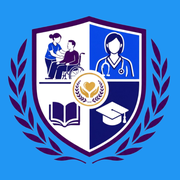
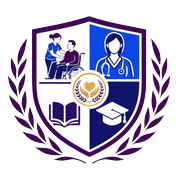
update

diff --git a/css/portal.css b/css/portal.css
@@ -7,6 +7,10 @@
    --------------------------------------------------------- */
 
 :root {
+  --brand-purple: #3b0a6e;
+  --brand-blue: #1a4fd6;
+  --brand-navy: #152a6e;
+  --brand-gold: #c9a227;
   --ink: #0a1128;
   --paper: #ffffff;
   --mist: #e8ecf2;
@@ -944,3 +948,135 @@ h1, h2, h3, h4, p { margin: 0; }
 }
 [data-theme="dark"] .page-head h1,
 [data-theme="dark"] .display { color: #f8fafc; }
+
+/* CareEd + school mark */
+.careed-brand {
+  display: flex; align-items: center; gap: 10px; min-width: 0;
+}
+.careed-brand img {
+  width: 36px; height: 36px; object-fit: contain; flex-shrink: 0;
+}
+.careed-brand .careed-text { line-height: 1.15; min-width: 0; }
+.careed-brand .careed-text strong {
+  display: block; font-family: Montserrat, sans-serif; font-weight: 800; font-size: 14px;
+  color: var(--ink); letter-spacing: -0.02em;
+}
+.careed-brand .careed-text span {
+  display: block; font-size: 10px; color: var(--muted); font-weight: 600;
+}
+.m-top { display: flex; align-items: center; justify-content: space-between; gap: 8px; }
+.m-top-r { display: flex; align-items: center; gap: 8px; }
+.notif-btn {
+  width: 40px; height: 40px; border-radius: 50%; border: 0; background: #f1f5f9;
+  display: grid; place-items: center; position: relative; cursor: pointer;
+}
+.notif-btn .dot {
+  position: absolute; top: 8px; right: 8px; width: 8px; height: 8px;
+  background: #dc2626; border-radius: 50%; border: 2px solid #fff;
+}
+.notif-drawer {
+  position: fixed; inset: 0; z-index: 80; pointer-events: auto;
+}
+.notif-drawer.open { pointer-events: auto; }
+.notif-scrim {
+  position: absolute; inset: 0; background: rgba(15,23,42,0.35); opacity: 0;
+  transition: opacity 0.2s;
+}
+.notif-drawer.open .notif-scrim { opacity: 1; }
+.notif-panel {
+  position: absolute; top: 0; right: 0; bottom: 0; width: min(100%, 360px);
+  background: #fff; transform: translateX(105%); transition: transform 0.28s ease;
+  display: flex; flex-direction: column; box-shadow: -8px 0 30px rgba(0,0,0,0.12);
+}
+.notif-drawer.open .notif-panel { transform: translateX(0); }
+.notif-head {
+  display: flex; align-items: center; justify-content: space-between;
+  padding: 16px; border-bottom: 1px solid #eef2f7;
+}
+.notif-list { flex: 1; overflow-y: auto; padding: 12px; }
+.notif-item {
+  padding: 12px; border-radius: 14px; border: 1px solid #eef2f7;
+  margin-bottom: 8px; background: #f8fafc;
+}
+.notif-item.unread { background: #eff6ff; border-color: #bfdbfe; }
+.notif-item h4 { margin: 0 0 4px; font-size: 13px; font-weight: 800; }
+.notif-item p { margin: 0; font-size: 12px; color: var(--muted); line-height: 1.4; }
+.notif-item time { display: block; margin-top: 6px; font-size: 11px; color: #94a3b8; }
+
+.m-app { display: flex; flex-direction: column; min-height: 100dvh; max-width: 480px; margin: 0 auto; }
+.m-app .sticky-top {
+  position: sticky; top: 0; z-index: 40;
+  background: color-mix(in srgb, var(--paper, #f6f7fb) 92%, transparent);
+  backdrop-filter: blur(12px); -webkit-backdrop-filter: blur(12px);
+  padding-top: max(10px, env(safe-area-inset-top));
+  padding-bottom: 10px;
+  border-bottom: 1px solid transparent;
+}
+.m-scroll { flex: 1; min-height: 0; }
+.m-app.is-locked .m-scroll { overflow: hidden; touch-action: none; }
+.avatar-btn { border: 0; background: transparent; padding: 0; cursor: pointer; border-radius: 50%; }
+.careed-foot {
+  display: flex; align-items: center; justify-content: center; gap: 8px;
+  padding: 14px 12px max(16px, env(safe-area-inset-bottom));
+  font-size: 11px; color: var(--muted);
+}
+.careed-foot img { width: 22px; height: 22px; object-fit: contain; }
+.careed-foot b { color: var(--ink); font-weight: 800; }
+.m-tiles { display: grid; grid-template-columns: 1fr 1fr; gap: 10px; }
+.m-tile.tall { grid-row: span 1; min-height: 110px; }
+.pw-field { position: relative; display: flex; align-items: center; }
+.pw-field input { width: 100%; padding-right: 64px; box-sizing: border-box; }
+.pw-toggle {
+  position: absolute; right: 8px; border: 0; background: transparent;
+  font-size: 12px; font-weight: 700; color: var(--muted); cursor: pointer;
+}
+.auth-logo-row { display: flex; align-items: center; gap: 10px; margin-bottom: 8px; }
+.auth-logo-row img { width: 48px; height: 48px; object-fit: contain; }
+
+/* Night mode — proper surfaces */
+[data-theme="dark"] {
+  --paper: #0c1222;
+  --ink: #e8eef8;
+  --muted: #9aa8bc;
+  --line: #243044;
+  color-scheme: dark;
+  background: #0c1222;
+  color: #e8eef8;
+}
+[data-theme="dark"] .m-app { background: #0c1222; }
+[data-theme="dark"] .sticky-top {
+  background: rgba(12, 18, 34, 0.9);
+  border-bottom-color: #1e2a3d;
+}
+[data-theme="dark"] .panel,
+[data-theme="dark"] .m-card,
+[data-theme="dark"] .more-tile,
+[data-theme="dark"] .feed-card,
+[data-theme="dark"] .auth-card,
+[data-theme="dark"] .drawer-panel,
+[data-theme="dark"] .notif-panel,
+[data-theme="dark"] .quiz-card,
+[data-theme="dark"] .fees-balance {
+  background: #141c2e !important;
+  border-color: #243044 !important;
+  color: #e8eef8;
+}
+[data-theme="dark"] .m-tile { filter: saturate(0.85) brightness(0.9); }
+[data-theme="dark"] .icon-btn,
+[data-theme="dark"] .notif-btn {
+  background: #1a2438; color: #e8eef8;
+}
+[data-theme="dark"] input,
+[data-theme="dark"] textarea,
+[data-theme="dark"] select {
+  background: #0c1222; color: #e8eef8; border-color: #243044;
+}
+[data-theme="dark"] .btn-block.secondary,
+[data-theme="dark"] .pill-ink { }
+[data-theme="dark"] .empty-state,
+[data-theme="dark"] .m-banner { background: #141c2e; }
+[data-theme="dark"] .display,
+[data-theme="dark"] h1, [data-theme="dark"] h2, [data-theme="dark"] h3, [data-theme="dark"] h4 {
+  color: #f1f5f9;
+}
+[data-theme="dark"] .notif-scrim { background: rgba(0,0,0,0.55); }

diff --git a/src/pages/dashboard.page.js b/src/pages/dashboard.page.js
@@ -387,20 +387,27 @@ function BrandLoading({ isDesktop }) {
 function LoginGate({ onAuthed }) {
   const [email, setEmail] = useState("");
   const [password, setPassword] = useState("");
+  const [showPw, setShowPw] = useState(false);
   const [err, setErr] = useState("");
   const [loading, setLoading] = useState(false);
 
   async function submit(e) {
     e.preventDefault();
     setErr("");
+    const em = email.trim();
+    const pw = password;
+    if (!em || !pw) {
+      setErr("Enter both your email and password.");
+      return;
+    }
     setLoading(true);
     try {
       const { auth, signInWithEmailAndPassword } = await firebaseAuth();
-      const cred = await signInWithEmailAndPassword(auth, email.trim(), password);
+      const cred = await signInWithEmailAndPassword(auth, em, pw);
       onAuthed(cred.user);
     } catch (ex) {
       const code = ex && ex.code;
-      if (code === "auth/invalid-credential" || code === "auth/wrong-password" || code === "auth/user-not-found") {
+      if (code === "auth/invalid-credential" || code === "auth/wrong-password" || code === "auth/user-not-found" || code === "auth/invalid-email") {
         setErr("That email or password does not match. Use the password or one-time code sent after payment.");
       } else if (code === "auth/too-many-requests") {
         setErr("Too many tries. Wait a minute, then try again.");
@@ -414,15 +421,25 @@ function LoginGate({ onAuthed }) {
 
   return html`<div class="auth-wrap">
     <div class="auth-card">
-      <span class="brand">CGTIA</span>
+      <div class="auth-logo-row">
+        <img src="/assets/brand/cgtia-logo.webp" alt="CGTIA" width="48" height="48" />
+        <span class="brand">CGTIA</span>
+      </div>
       <h1>Student sign in</h1>
       <p class="sub">Use the email from your application and the password or one-time code you received after payment.</p>
       <form onSubmit=${submit}>
         <label>Email</label>
         <input type="email" required autocomplete="username" value=${email} onInput=${(e) => setEmail(e.target.value)} placeholder="you@email.com" />
         <label>Password</label>
-        <input type="password" required autocomplete="current-password" value=${password} onInput=${(e) => setPassword(e.target.value)} placeholder="••••••••" />
-        ${err ? html`<p class="err">${err}</p>` : null}
+        <div class="pw-field">
+          <input type=${showPw ? "text" : "password"} required autocomplete="current-password"
+            value=${password} onInput=${(e) => setPassword(e.target.value)} placeholder="••••••••" />
+          <button type="button" class="pw-toggle" aria-label=${showPw ? "Hide password" : "Show password"}
+            onClick=${(e) => { e.preventDefault(); e.stopPropagation(); setShowPw(!showPw); }}>
+            ${showPw ? "Hide" : "Show"}
+          </button>
+        </div>
+        ${err ? html`<p class="err" role="alert">${err}</p>` : null}
         <button type="submit" class="pill-ink" disabled=${loading}>${loading ? "Signing in…" : "Sign in"}</button>
       </form>
       <p style=${{ marginTop: 16, fontSize: 13 }}><a href="/" style=${{ color: "var(--muted)" }}>← Back to website</a></p>
@@ -555,9 +572,10 @@ export function DashboardPage() {
         { id: "score", value: avg != null ? avg : "—", total: avg != null ? 100 : null, label: avg != null ? "Average score" : "Awaiting scores", tone: "lime" }
       ]
     : [
-        { id: "courses", value: courses.length, label: "Courses on your track", icon: "book", tall: true },
+        { id: "courses", value: courses.length, label: "Modules on your track", icon: "book", tall: true },
         { id: "grades", value: grades.length, label: "Published results", icon: "chart" },
-        { id: "fees", value: avg != null ? avg : "₦" + (paidTotal >= 1000 ? Math.round(paidTotal / 1000) + "k" : paidTotal), label: avg != null ? "Average score" : "Fees recorded", icon: "card" }
+        { id: "score", value: avg != null ? avg : "—", label: avg != null ? "Average score" : "No scores yet", icon: "chart" },
+        { id: "fees", value: "₦" + (paidTotal >= 1000 ? Math.round(paidTotal / 1000) + "k" : paidTotal), label: "Fees recorded", icon: "card" }
       ];
 
   // Fix desktop stats - total null shows ugly - adjust StatCard already handles total != null

diff --git a/src/pages/portal/mobile.view.js b/src/pages/portal/mobile.view.js
@@ -742,9 +742,10 @@ function SettingsScreen({ student, user, onLogout, setSection }) {
 
 
 function NotifDrawer({ open, onClose, items, onOpen }) {
-  return html`<div class=${"notif-drawer" + (open ? " open" : "")}>
+  if (!open) return null;
+  return html`<div class="notif-drawer open">
     <div class="notif-scrim" onClick=${onClose}></div>
-    <aside class="notif-panel" role="dialog" aria-label="Notifications">
+    <aside class="notif-panel" role="dialog" aria-modal="true" aria-label="Notifications">
       <div class="notif-head">
         <strong style=${{ fontSize: 16 }}>Notifications</strong>
         <button type="button" class="icon-btn" aria-label="Close" onClick=${onClose}>${Icon({ name: "close", size: 18 })}</button>
@@ -774,6 +775,19 @@ export function MobileView({ ctx }) {
   const [menuOpen, setMenuOpen] = useState(false);
   const [notifOpen, setNotifOpen] = useState(false);
   const closeMenu = useCallback(() => setMenuOpen(false), []);
+  useEffect(() => {
+    const lock = menuOpen || notifOpen;
+    try {
+      document.documentElement.style.overflow = lock ? "hidden" : "";
+      document.body.style.overflow = lock ? "hidden" : "";
+    } catch (_) {}
+    return () => {
+      try {
+        document.documentElement.style.overflow = "";
+        document.body.style.overflow = "";
+      } catch (_) {}
+    };
+  }, [menuOpen, notifOpen]);
   const name = student?.name || "Student";
   const first = String(name).split(/\s+/)[0];
   const unreadNotifs = (notifications || []).filter((n) => !n.read).length;
@@ -827,7 +841,7 @@ export function MobileView({ ctx }) {
       <section class="m-tiles">
         ${stats.map((s) => html`<${Tile} key=${s.id} s=${s} onClick=${() => {
           if (s.id === "courses" || s.go === "courses") setSection("courses");
-          else if (s.id === "grades" || s.go === "grades") setSection("grades");
+          else if (s.id === "grades" || s.id === "score" || s.go === "grades") setSection("grades");
           else if (s.id === "fees" || s.go === "fees") setSection("fees");
           else if (s.go) setSection(s.go);
         }} />`)}
@@ -1330,26 +1344,27 @@ export function MobileView({ ctx }) {
     `;
   }
 
-  return html`<div class="m-app">
-    <header class="m-top">
+  return html`<div class=${"m-app" + ((menuOpen || notifOpen) ? " is-locked" : "")}>
+    <header class="m-top sticky-top">
       <button class="icon-btn" aria-label="Open menu" aria-expanded=${menuOpen}
         onClick=${() => setMenuOpen(true)}>${Icon({ name: "menu", size: 18 })}</button>
-      <div class="careed-brand" aria-label="CareEd powered by CGTIA">
-        <img src="/assets/brand/cgtia-logo.webp" alt="" width="36" height="36" />
-        <div class="careed-text">
-          <strong>CareEd</strong>
-          <span>Powered by CGTIA</span>
-        </div>
-      </div>
       <div class="m-top-r">
         <button type="button" class="notif-btn" aria-label="Notifications" onClick=${() => setNotifOpen(true)}>
           ${Icon({ name: "bell", size: 18 })}
           ${unreadNotifs ? html`<span class="dot"></span>` : null}
         </button>
-        <${Avatar} src=${student?.avatar} name=${name} />
+        <button type="button" class="avatar-btn" aria-label="Profile" onClick=${() => setSection("profile")}>
+          <${Avatar} src=${student?.avatar} name=${name} />
+        </button>
       </div>
     </header>
+    <div class="m-scroll">
     ${body}
+    </div>
+    <footer class="careed-foot" aria-label="CareEd powered by CGTIA">
+      <img src="/assets/brand/cgtia-logo.webp" alt="" width="22" height="22" />
+      <span><b>CareEd</b> · Powered by CGTIA</span>
+    </footer>
     <${MenuDrawer}
       open=${menuOpen}
       onClose=${closeMenu}

diff --git a/src/pages/content/about.content.js b/src/pages/content/about.content.js
@@ -6,7 +6,7 @@ export const about_html = `
   <!-- Faded Sticky Header -->
   <header class="faded-sticky-header w-full smooth-transition">
     <div class="w-full max-w-7xl mx-auto px-6 py-8 flex justify-between items-center">
-      <a href="/" data-pill-label="Home" class="font-editorial text-xl md:text-2xl font-bold tracking-tight text-blue-950">CGTIA.</a>
+      <a href="/" data-pill-label="Home" class="font-editorial text-xl md:text-2xl font-bold tracking-tight text-blue-950"><span class="inline-flex items-center gap-2"><img src="/assets/brand/cgtia-logo.webp" alt="" width="32" height="32" class="w-8 h-8 object-contain" /><span>CGTIA</span></span></a>
       <nav class="hidden md:flex space-x-7 text-xs font-semibold tracking-widest uppercase text-slate-500">
         <a href="/" class="hover:text-blue-950 smooth-transition">Home</a>
         <a href="/about" class="text-blue-950 hover:text-blue-950 smooth-transition">About</a>

diff --git a/src/pages/content/wall-of-fame.content.js b/src/pages/content/wall-of-fame.content.js
@@ -6,7 +6,7 @@ export const wall_of_fame_html = `
   <!-- Faded Sticky Header -->
   <header class="faded-sticky-header w-full smooth-transition">
     <div class="w-full max-w-7xl mx-auto px-6 py-8 flex justify-between items-center">
-      <a href="/" data-pill-label="Home" class="font-editorial text-xl md:text-2xl font-bold tracking-tight text-blue-950">CGTIA.</a>
+      <a href="/" data-pill-label="Home" class="font-editorial text-xl md:text-2xl font-bold tracking-tight text-blue-950"><span class="inline-flex items-center gap-2"><img src="/assets/brand/cgtia-logo.webp" alt="" width="32" height="32" class="w-8 h-8 object-contain" /><span>CGTIA</span></span></a>
       <nav class="hidden md:flex space-x-7 text-xs font-semibold tracking-widest uppercase text-slate-500">
         <a href="/" class="hover:text-blue-950 smooth-transition">Home</a>
         <a href="/about" class="hover:text-blue-950 smooth-transition">About</a>

diff --git a/src/pages/content/licensing.content.js b/src/pages/content/licensing.content.js
@@ -6,7 +6,7 @@ export const licensing_html = `
   <!-- Faded Sticky Header -->
   <header class="faded-sticky-header w-full smooth-transition">
     <div class="w-full max-w-7xl mx-auto px-6 py-8 flex justify-between items-center">
-      <a href="/" data-pill-label="Home" class="font-editorial text-xl md:text-2xl font-bold tracking-tight text-blue-950">CGTIA.</a>
+      <a href="/" data-pill-label="Home" class="font-editorial text-xl md:text-2xl font-bold tracking-tight text-blue-950"><span class="inline-flex items-center gap-2"><img src="/assets/brand/cgtia-logo.webp" alt="" width="32" height="32" class="w-8 h-8 object-contain" /><span>CGTIA</span></span></a>
       <nav class="hidden md:flex space-x-7 text-xs font-semibold tracking-widest uppercase text-slate-500">
         <a href="/" class="hover:text-blue-950 smooth-transition">Home</a>
         <a href="/about" class="hover:text-blue-950 smooth-transition">About</a>

diff --git a/src/pages/content/programs.content.js b/src/pages/content/programs.content.js
@@ -6,7 +6,7 @@ export const programs_html = `
   <!-- Faded Sticky Header -->
   <header class="faded-sticky-header w-full smooth-transition">
     <div class="w-full max-w-7xl mx-auto px-6 py-8 flex justify-between items-center">
-      <a href="/" data-pill-label="Home" class="font-editorial text-xl md:text-2xl font-bold tracking-tight text-blue-950">CGTIA.</a>
+      <a href="/" data-pill-label="Home" class="font-editorial text-xl md:text-2xl font-bold tracking-tight text-blue-950"><span class="inline-flex items-center gap-2"><img src="/assets/brand/cgtia-logo.webp" alt="" width="32" height="32" class="w-8 h-8 object-contain" /><span>CGTIA</span></span></a>
       <nav class="hidden md:flex space-x-7 text-xs font-semibold tracking-widest uppercase text-slate-500">
         <a href="/" class="hover:text-blue-950 smooth-transition">Home</a>
         <a href="/about" class="hover:text-blue-950 smooth-transition">About</a>

diff --git a/src/pages/content/contact.content.js b/src/pages/content/contact.content.js
@@ -6,7 +6,7 @@ export const contact_html = `
   <!-- Faded Sticky Header -->
   <header class="faded-sticky-header w-full smooth-transition">
     <div class="w-full max-w-7xl mx-auto px-6 py-8 flex justify-between items-center">
-      <a href="/" data-pill-label="Home" class="font-editorial text-xl md:text-2xl font-bold tracking-tight text-blue-950">CGTIA.</a>
+      <a href="/" data-pill-label="Home" class="font-editorial text-xl md:text-2xl font-bold tracking-tight text-blue-950"><span class="inline-flex items-center gap-2"><img src="/assets/brand/cgtia-logo.webp" alt="" width="32" height="32" class="w-8 h-8 object-contain" /><span>CGTIA</span></span></a>
       <nav class="hidden md:flex space-x-7 text-xs font-semibold tracking-widest uppercase text-slate-500">
         <a href="/" class="hover:text-blue-950 smooth-transition">Home</a>
         <a href="/about" class="hover:text-blue-950 smooth-transition">About</a>

diff --git a/src/pages/content/gallery.content.js b/src/pages/content/gallery.content.js
@@ -6,7 +6,7 @@ export const gallery_html = `
   <!-- Faded Sticky Header -->
   <header class="faded-sticky-header w-full smooth-transition">
     <div class="w-full max-w-7xl mx-auto px-6 py-8 flex justify-between items-center">
-      <a href="/" data-pill-label="Home" class="font-editorial text-xl md:text-2xl font-bold tracking-tight text-blue-950">CGTIA.</a>
+      <a href="/" data-pill-label="Home" class="font-editorial text-xl md:text-2xl font-bold tracking-tight text-blue-950"><span class="inline-flex items-center gap-2"><img src="/assets/brand/cgtia-logo.webp" alt="" width="32" height="32" class="w-8 h-8 object-contain" /><span>CGTIA</span></span></a>
       <nav class="hidden md:flex space-x-7 text-xs font-semibold tracking-widest uppercase text-slate-500">
         <a href="/" class="hover:text-blue-950 smooth-transition">Home</a>
         <a href="/about" class="hover:text-blue-950 smooth-transition">About</a>

diff --git a/src/pages/content/privacy.content.js b/src/pages/content/privacy.content.js
@@ -6,7 +6,7 @@ export const privacy_html = `
   <!-- Faded Sticky Header -->
   <header class="faded-sticky-header w-full smooth-transition">
     <div class="w-full max-w-7xl mx-auto px-6 py-8 flex justify-between items-center">
-      <a href="/" data-pill-label="Home" class="font-editorial text-xl md:text-2xl font-bold tracking-tight text-blue-950">CGTIA.</a>
+      <a href="/" data-pill-label="Home" class="font-editorial text-xl md:text-2xl font-bold tracking-tight text-blue-950"><span class="inline-flex items-center gap-2"><img src="/assets/brand/cgtia-logo.webp" alt="" width="32" height="32" class="w-8 h-8 object-contain" /><span>CGTIA</span></span></a>
       <nav class="hidden md:flex space-x-7 text-xs font-semibold tracking-widest uppercase text-slate-500">
         <a href="/" class="hover:text-blue-950 smooth-transition">Home</a>
         <a href="/about" class="hover:text-blue-950 smooth-transition">About</a>

diff --git a/src/pages/content/tuition.content.js b/src/pages/content/tuition.content.js
@@ -6,7 +6,7 @@ export const tuition_html = `
   <!-- Faded Sticky Header -->
   <header class="faded-sticky-header w-full smooth-transition">
     <div class="w-full max-w-7xl mx-auto px-6 py-8 flex justify-between items-center">
-      <a href="/" data-pill-label="Home" class="font-editorial text-xl md:text-2xl font-bold tracking-tight text-blue-950">CGTIA.</a>
+      <a href="/" data-pill-label="Home" class="font-editorial text-xl md:text-2xl font-bold tracking-tight text-blue-950"><span class="inline-flex items-center gap-2"><img src="/assets/brand/cgtia-logo.webp" alt="" width="32" height="32" class="w-8 h-8 object-contain" /><span>CGTIA</span></span></a>
       <nav class="hidden md:flex space-x-7 text-xs font-semibold tracking-widest uppercase text-slate-500">
         <a href="/" class="hover:text-blue-950 smooth-transition">Home</a>
         <a href="/about" class="hover:text-blue-950 smooth-transition">About</a>

diff --git a/src/pages/content/custom.content.js b/src/pages/content/custom.content.js
@@ -6,7 +6,7 @@ export const custom_html = `
   <!-- Faded Sticky Header -->
   <header class="faded-sticky-header w-full smooth-transition">
     <div class="w-full max-w-7xl mx-auto px-6 py-8 flex justify-between items-center">
-      <a href="/" data-pill-label="Home" class="font-editorial text-xl md:text-2xl font-bold tracking-tight text-blue-950">CGTIA.</a>
+      <a href="/" data-pill-label="Home" class="font-editorial text-xl md:text-2xl font-bold tracking-tight text-blue-950"><span class="inline-flex items-center gap-2"><img src="/assets/brand/cgtia-logo.webp" alt="" width="32" height="32" class="w-8 h-8 object-contain" /><span>CGTIA</span></span></a>
       <nav class="hidden md:flex space-x-7 text-xs font-semibold tracking-widest uppercase text-slate-500">
         <a href="/" class="hover:text-blue-950 smooth-transition">Home</a>
         <a href="/about" class="hover:text-blue-950 smooth-transition">About</a>
